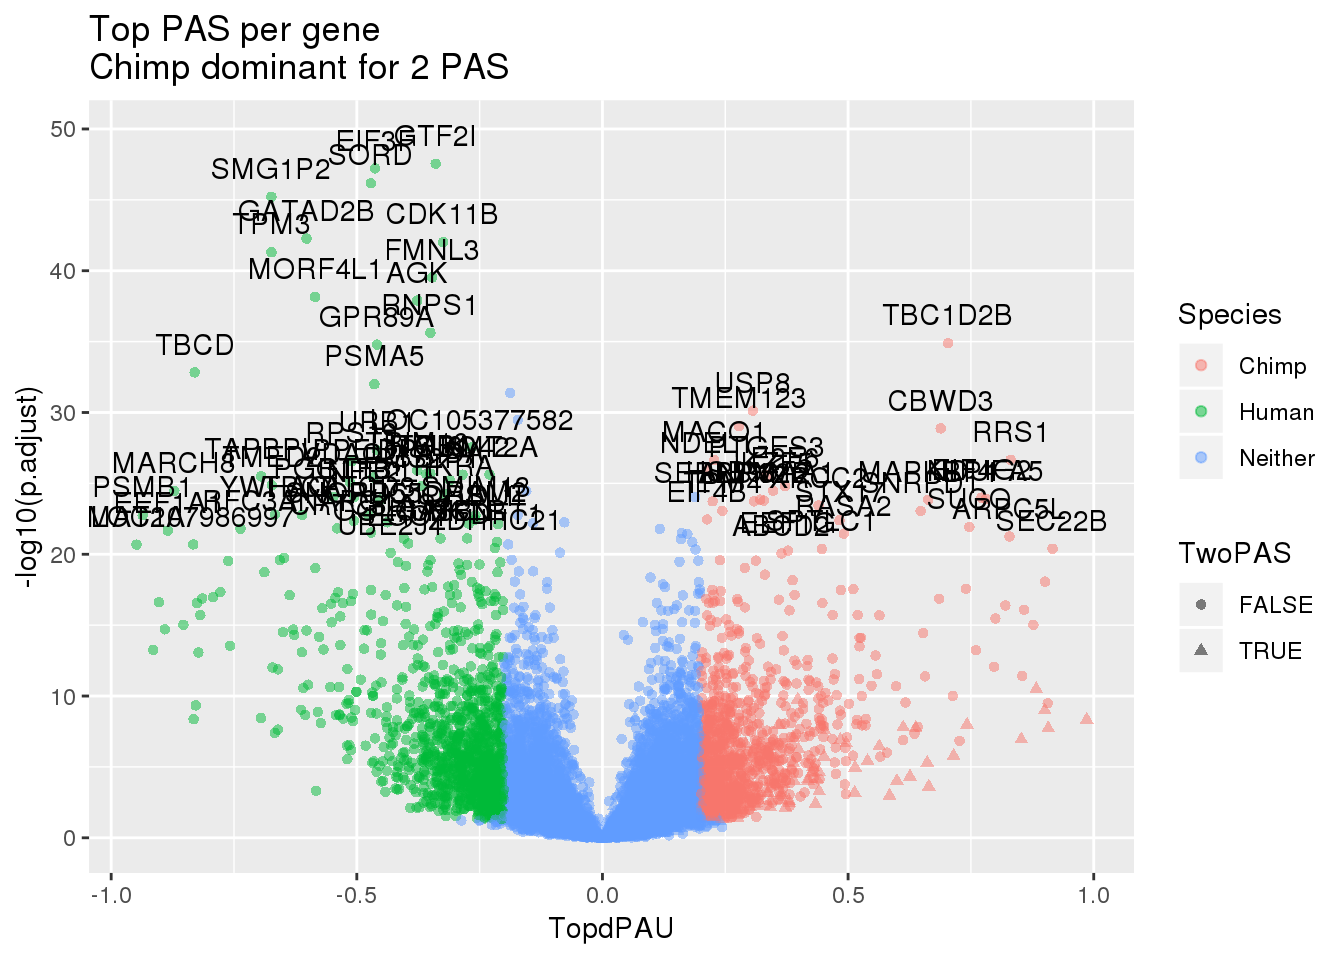
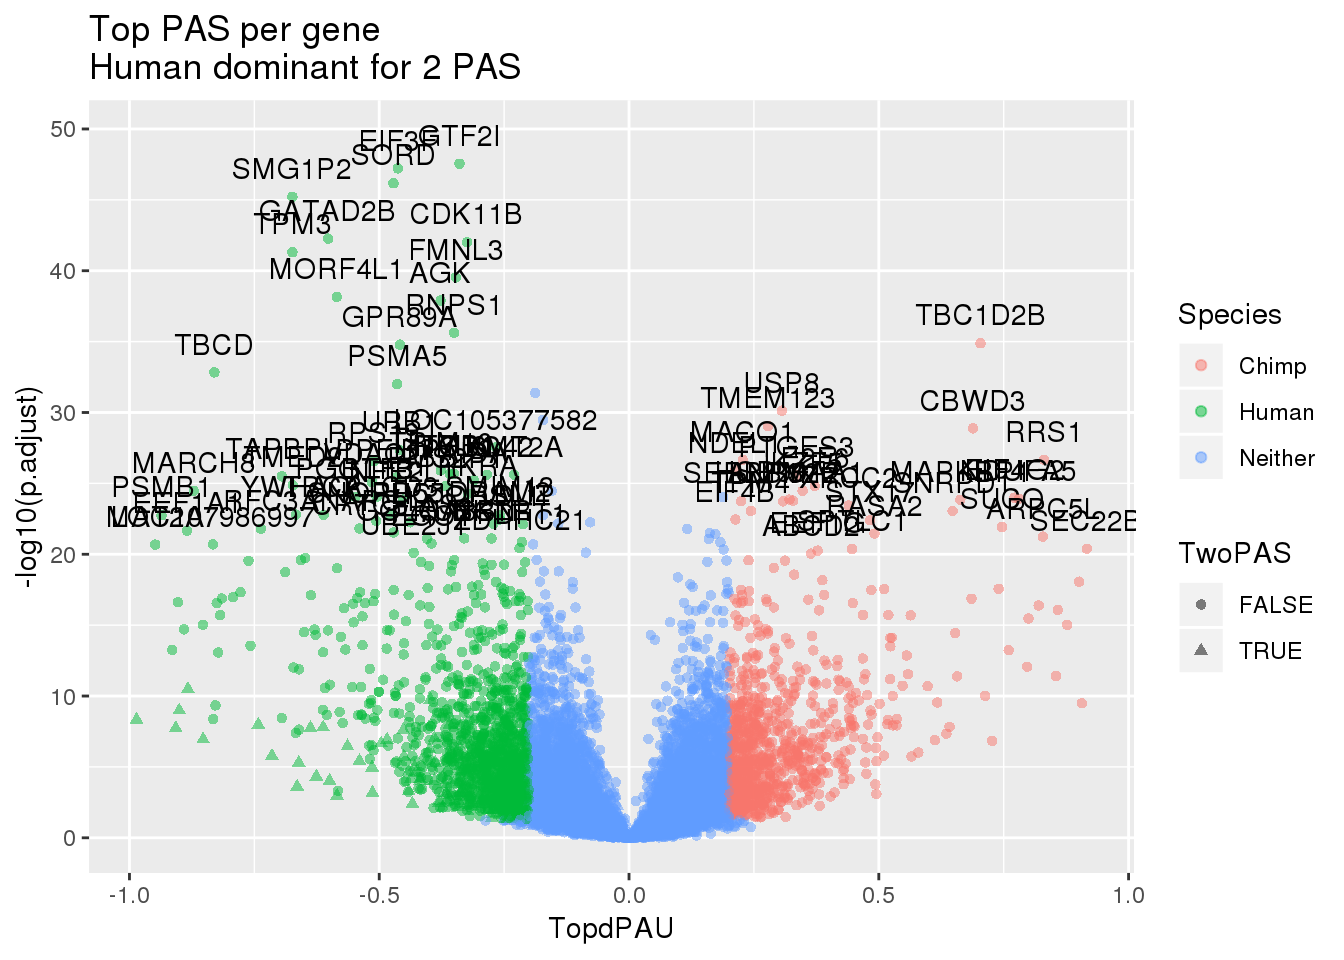
Build site.

diff --git a/docs/Nuclear_HvC_DF.html b/docs/Nuclear_HvC_DF.html
@@ -343,7 +343,7 @@ div.section {
 <div class="tab-content">
 <div id="summary" class="tab-pane fade in active">
 <p>
-<strong>Last updated:</strong> 2020-01-24
+<strong>Last updated:</strong> 2020-01-26
 </p>
 <p>
 <strong>Checks:</strong> <span class="glyphicon glyphicon-ok text-success" aria-hidden="true"></span> 7 <span class="glyphicon glyphicon-exclamation-sign text-danger" aria-hidden="true"></span> 0
@@ -434,10 +434,10 @@ This reproducible <a href="http://rmarkdown.rstudio.com">R Markdown</a> analysis
 <div class="panel panel-default">
 <div class="panel-heading">
 <p class="panel-title">
-<a data-toggle="collapse" data-parent="#workflowr-checks" href="#strongRepositoryversionstrongahrefhttpsgithubcombrimittlemanComparativeAPAtreeea17340cc15b89e5473f6a8fe1769795b8f96756targetblankea17340a"> <span class="glyphicon glyphicon-ok text-success" aria-hidden="true"></span> <strong>Repository version:</strong> <a href="https://github.com/brimittleman/Comparative_APA/tree/ea17340cc15b89e5473f6a8fe1769795b8f96756" target="_blank">ea17340</a> </a>
+<a data-toggle="collapse" data-parent="#workflowr-checks" href="#strongRepositoryversionstrongahrefhttpsgithubcombrimittlemanComparativeAPAtreebb7b019da795e13ac66b3d8572d942ecc372e0f1targetblankbb7b019a"> <span class="glyphicon glyphicon-ok text-success" aria-hidden="true"></span> <strong>Repository version:</strong> <a href="https://github.com/brimittleman/Comparative_APA/tree/bb7b019da795e13ac66b3d8572d942ecc372e0f1" target="_blank">bb7b019</a> </a>
 </p>
 </div>
[2 lines of base64/hex data omitted]
 <div class="panel-body">
 <p>
 Great! You are using Git for version control. Tracking code development and connecting the code version to the results is critical for reproducibility. The version displayed above was the version of the Git repository at the time these results were generated. <br><br> Note that you need to be careful to ensure that all relevant files for the analysis have been committed to Git prior to generating the results (you can use <code>wflow_publish</code> or <code>wflow_git_commit</code>). workflowr only checks the R Markdown file, but you know if there are other scripts or data files that it depends on. Below is the status of the Git repository when the results were generated:
@@ -459,7 +459,6 @@ Untracked files:
     Untracked:  Human/
     Untracked:  analysis/CrossChimpThreePrime.Rmd
     Untracked:  analysis/DiffTransProtvsExpression.Rmd
-    Untracked:  analysis/NormalizePheno_nuclear_DF.Rmd
     Untracked:  analysis/assessReadQual.Rmd
     Untracked:  analysis/diffExpressionPantro6.Rmd
     Untracked:  code/._ClassifyLeafviz.sh
@@ -521,6 +520,7 @@ Untracked files:
     Untracked:  code/._converBam2Junc_removeBad.sh
     Untracked:  code/._extraSnakefiltpas
     Untracked:  code/._extractPhyloReg.py
+    Untracked:  code/._extractPhyloRegGene.py
     Untracked:  code/._filter5percPAS.py
     Untracked:  code/._filterNumChroms.py
     Untracked:  code/._filterPASforMP.py
@@ -553,6 +553,7 @@ Untracked files:
     Untracked:  code/._negativeMediation_montecarloDF.R
     Untracked:  code/._numMultimap.py
     Untracked:  code/._overlapapaQTLPAS.sh
+    Untracked:  code/._parseHg38.py
     Untracked:  code/._postiveMediation_montecarlo_DF.R
     Untracked:  code/._prepareCleanLiftedFC_5perc4LC.py
     Untracked:  code/._prepareLeafvizAnno.sh
@@ -764,6 +765,7 @@ Untracked files:
     Untracked:  code/environment.yaml
     Untracked:  code/extraSnakefiltpas
     Untracked:  code/extractPhyloReg.py
+    Untracked:  code/extractPhyloRegGene.py
     Untracked:  code/filter5perc.R
     Untracked:  code/filter5percPAS.py
     Untracked:  code/filter5percPheno.py
@@ -847,6 +849,7 @@ Untracked files:
     Untracked:  code/overlapapaQTLPAS.sh
     Untracked:  code/overlapapaQTLPAS_extended.sh
     Untracked:  code/overlapapaQTLPAS_samples.sh
+    Untracked:  code/parseHg38.py
     Untracked:  code/peak2PAS.py
     Untracked:  code/pheno2countonly.R
     Untracked:  code/postiveMediation_montecarlo.R
@@ -1072,6 +1075,7 @@ Unstaged changes:
     Modified:   analysis/investigatePantro5.Rmd
     Modified:   analysis/multiMap.Rmd
     Modified:   analysis/speciesSpecific.Rmd
+    Modified:   analysis/speciesSpecific_DF.Rmd
 
 </code></pre>
 <p>
@@ -1110,6 +1114,40 @@ Message
 </tr>
 </thead>
 <tbody>
+<tr>
+<td>
+Rmd
+</td>
+<td>
+<a href="https://github.com/brimittleman/Comparative_APA/blob/bb7b019da795e13ac66b3d8572d942ecc372e0f1/analysis/Nuclear_HvC_DF.Rmd" target="_blank">bb7b019</a>
+</td>
+<td>
+brimittleman
+</td>
+<td>
+2020-01-26
+</td>
+<td>
+add color to effect plot
+</td>
+</tr>
+<tr>
+<td>
+html
+</td>
+<td>
+<a href="https://rawcdn.githack.com/brimittleman/Comparative_APA/5910b06690281ebb0f477d2c43f4800673ac0dd5/docs/Nuclear_HvC_DF.html" target="_blank">5910b06</a>
+</td>
+<td>
+brimittleman
+</td>
+<td>
+2020-01-24
+</td>
+<td>
+Build site.
+</td>
+</tr>
 <tr>
 <td>
 Rmd
@@ -1170,12 +1208,12 @@ nuclear diff filtered
 </div>
 <pre class="r"><code>library(reshape2)
 library(tidyverse)</code></pre>
-<pre><code>── Attaching packages ─────────────────────────────────────────────────────────────────────────────────────────────────────────────────────────────── tidyverse 1.2.1 ──</code></pre>
+<pre><code>── Attaching packages ────────────────────────────────────────────────────────────────────────────────────────────────────────────────────── tidyverse 1.2.1 ──</code></pre>
 <pre><code>✔ ggplot2 3.1.1       ✔ purrr   0.3.2  
 ✔ tibble  2.1.1       ✔ dplyr   0.8.0.1
 ✔ tidyr   0.8.3       ✔ stringr 1.3.1  
 ✔ readr   1.3.1       ✔ forcats 0.3.0  </code></pre>
-<pre><code>── Conflicts ────────────────────────────────────────────────────────────────────────────────────────────────────────────────────────────────── tidyverse_conflicts() ──
+<pre><code>── Conflicts ───────────────────────────────────────────────────────────────────────────────────────────────────────────────────────── tidyverse_conflicts() ──
 ✖ dplyr::filter() masks stats::filter()
 ✖ dplyr::lag()    masks stats::lag()</code></pre>
 <p>Compare nuclear fraction PAS between human and chimp. I need to fiter the phenotypes fixed for leafcutter further to have only the double filtered PAS.</p>
@@ -1327,6 +1365,13 @@ brimittleman
 </table>
 </div>
 </div>
+<p>Effect size &gt;.2 color:</p>
+<pre class="r"><code>effectsize_col= effectsize %&gt;% arrange(deltaPAU) %&gt;%  mutate(diffuse=ifelse(abs(deltaPAU)&gt;=.2,&quot;Yes&quot;, &quot;No&quot;))
+effectsize_col$color &lt;- ifelse(effectsize_col$diffuse==&quot;Yes&quot;, &quot;red&quot;, &quot;black&quot;)
+
+plot(sort(effectsize_col$deltaPAU),main=&quot;Leafcutter delta PAU&quot;, ylab=&quot;Delta PAU&quot;, xlab=&quot;PAS Index&quot;,col=alpha(effectsize_col$color, 0.6))
+legend(&quot;topleft&quot;, legend=c(&quot;abs(DPAU) &gt; .2, (n=3103)&quot;, &quot;Not differentially used (n=37673)&quot;), col=c(&quot;red&quot;, &quot;black&quot;), pch=16:16, cex=0.8)</code></pre>
+<p><img src="figure/Nuclear_HvC_DF.Rmd/unnamed-chunk-16-1.png" width="672" style="display: block; margin: auto;" /></p>
 <p>Are those discovered used more in chimp those discovered in chimp?</p>
 <pre class="r"><code>PASinfo=read.table(&quot;../data/PAS_doubleFilter/PAS_10perc_either_HumanCoord_BothUsage_meta_doubleFilter.txt&quot;,header = T, stringsAsFactors = F)</code></pre>
 <p>Join this with the effect sizes.</p>
@@ -1335,44 +1380,7 @@ effectsize_sep$start=as.integer(effectsize_sep$start)
 effectsize_sep$end=as.integer(effectsize_sep$end)
 effectsize_anno=effectsize_sep %&gt;% inner_join(PASinfo, by=c(&quot;chr&quot;, &quot;start&quot;, &quot;end&quot;,&quot;gene&quot;))</code></pre>
 <pre class="r"><code>ggplot(effectsize_anno, aes(x=disc, y=deltaPAU)) + geom_boxplot()</code></pre>
-<p><img src="figure/Nuclear_HvC_DF.Rmd/unnamed-chunk-18-1.png" width="672" style="display: block; margin: auto;" /></p>
-<p>
-<button type="button" class="btn btn-default btn-xs btn-workflowr btn-workflowr-fig" data-toggle="collapse" data-target="#fig-unnamed-chunk-18-1">
-Past versions of unnamed-chunk-18-1.png
-</button>
-</p>
-<div id="fig-unnamed-chunk-18-1" class="collapse">
-<div class="table-responsive">
-<table class="table table-condensed table-hover">
-<thead>
-<tr>
-<th>
-Version
-</th>
-<th>
-Author
-</th>
-<th>
-Date
-</th>
-</tr>
-</thead>
-<tbody>
-<tr>
-<td>
-<a href="https://github.com/brimittleman/Comparative_APA/blob/f00297802381bb687f60fb10c2ccea7e9cae8280/docs/figure/Nuclear_HvC_DF.Rmd/unnamed-chunk-18-1.png" target="_blank">f002978</a>
-</td>
-<td>
-brimittleman
-</td>
-<td>
-2020-01-22
-</td>
-</tr>
-</tbody>
-</table>
-</div>
-</div>
+<p><img src="figure/Nuclear_HvC_DF.Rmd/unnamed-chunk-19-1.png" width="672" style="display: block; margin: auto;" /></p>
 <p>Volcano plot:</p>
 <p>I need the effect sizes and the significance. I need to plot only the top PAS per cluster.</p>
 <pre class="r"><code>sig_geneP=sig %&gt;% separate(cluster,into = c(&quot;chr&quot;, &quot;gene&quot;), sep=&quot;:&quot;) %&gt;% dplyr::select(gene, p.adjust)
@@ -1385,45 +1393,7 @@ effectsizeTopFilt=effectsizeTop %&gt;% filter(abs(Min) != Max)
 effectsize_wES=effectsizeTopFilt %&gt;% inner_join(sig_geneP, by=&quot;gene&quot;) %&gt;% mutate(Species=ifelse(TopdPAU &gt; 0.2 &amp; p.adjust&lt;.05, &quot;Chimp&quot;, ifelse(TopdPAU &lt; -0.2 &amp; p.adjust&lt; .05, &quot;Human&quot;, &quot;Neither&quot;)))</code></pre>
 <p>This is the significance for the gene.</p>
 <pre class="r"><code>ggplot(effectsize_wES,aes(x=TopdPAU, y=-log10(p.adjust))) +geom_point(aes(col=Species),alpha=.5) + labs(title=&quot;Top PAS per gene \nExclude 2 PAS genes&quot;)+ geom_text(data=subset(effectsize_wES, -log10(p.adjust) &gt;20 &amp; abs(TopdPAU)&gt;.2 ), aes(x=TopdPAU,y=-log10(p.adjust) +2,label=gene))</code></pre>
-<p><img src="figure/Nuclear_HvC_DF.Rmd/unnamed-chunk-20-1.png" width="672" style="display: block; margin: auto;" /></p>
-<p>
-<button type="button" class="btn btn-default btn-xs btn-workflowr btn-workflowr-fig" data-toggle="collapse" data-target="#fig-unnamed-chunk-20-1">
-Past versions of unnamed-chunk-20-1.png
-</button>
-</p>
-<div id="fig-unnamed-chunk-20-1" class="collapse">
-<div class="table-responsive">
-<table class="table table-condensed table-hover">
-<thead>
-<tr>
-<th>
-Version
-</th>
-<th>
-Author
-</th>
-<th>
-Date
-</th>
-</tr>
-</thead>
-<tbody>
-<tr>
-<td>
-<a href="https://github.com/brimittleman/Comparative_APA/blob/f00297802381bb687f60fb10c2ccea7e9cae8280/docs/figure/Nuclear_HvC_DF.Rmd/unnamed-chunk-20-1.png" target="_blank">f002978</a>
-</td>
-<td>
-brimittleman
-</td>
-<td>
-2020-01-22
-</td>
-</tr>
-</tbody>
-</table>
-</div>
-</div>
-<p>Not the best way to visualize this because every PAS per gene is assigned the same pvalue.</p>
+<p><img src="figure/Nuclear_HvC_DF.Rmd/unnamed-chunk-21-1.png" width="672" style="display: block; margin: auto;" /> Not the best way to visualize this because every PAS per gene is assigned the same pvalue.</p>
 <p>Try this including the matching one. I will make 2 plots. One with human dominant, one with chimp dominant.</p>
 <pre class="r"><code>effectsizeTopHuman=effectsize_sep %&gt;% group_by(gene) %&gt;% summarise(Min=min(deltaPAU), Max=max(deltaPAU)) %&gt;% mutate(TopdPAU=ifelse(abs(Min) &gt; Max, Min, ifelse(abs(Min)==Max, Min, Max)),TwoPAS=ifelse(abs(Min)==Max, T, F))
 
@@ -1433,45 +1403,6 @@ effectsizeTopChimp=effectsize_sep %&gt;% group_by(gene) %&gt;% summarise(Min=min
 
 effectsize_wES_chimp=effectsizeTopChimp %&gt;% inner_join(sig_geneP, by=&quot;gene&quot;) %&gt;% mutate(Species=ifelse(TopdPAU &gt; 0.2 &amp; p.adjust&lt;.05, &quot;Chimp&quot;, ifelse(TopdPAU &lt; -0.2 &amp; p.adjust&lt; .05, &quot;Human&quot;, &quot;Neither&quot;)))</code></pre>
 <pre class="r"><code>ggplot(effectsize_wES_human,aes(x=TopdPAU, y=-log10(p.adjust))) + geom_point(aes(col=Species, shape=TwoPAS),alpha=.5) + labs(title=&quot;Top PAS per gene \nHuman dominant for 2 PAS&quot;)+ geom_text(data=subset(effectsize_wES_human,-log10(p.adjust) &gt;20 &amp; abs(TopdPAU)&gt;.2 ), aes(x=TopdPAU,y=-log10(p.adjust) +2,label=gene))</code></pre>
-<p><img src="figure/Nuclear_HvC_DF.Rmd/unnamed-chunk-22-1.png" width="672" style="display: block; margin: auto;" /></p>
-<p>
-<button type="button" class="btn btn-default btn-xs btn-workflowr btn-workflowr-fig" data-toggle="collapse" data-target="#fig-unnamed-chunk-22-1">
-Past versions of unnamed-chunk-22-1.png
-</button>
-</p>
-<div id="fig-unnamed-chunk-22-1" class="collapse">
-<div class="table-responsive">
-<table class="table table-condensed table-hover">
-<thead>
-<tr>
-<th>
-Version
-</th>
-<th>
-Author
-</th>
-<th>
-Date
-</th>
-</tr>
-</thead>
-<tbody>
-<tr>
-<td>
-<a href="https://github.com/brimittleman/Comparative_APA/blob/f00297802381bb687f60fb10c2ccea7e9cae8280/docs/figure/Nuclear_HvC_DF.Rmd/unnamed-chunk-22-1.png" target="_blank">f002978</a>
-</td>
-<td>
-brimittleman
-</td>
-<td>
-2020-01-22
-</td>
-</tr>
-</tbody>
-</table>
-</div>
-</div>
-<pre class="r"><code>ggplot(effectsize_wES_chimp,aes(x=TopdPAU, y=-log10(p.adjust))) + geom_point(aes(col=Species, shape=TwoPAS),alpha=.5)  + labs(title=&quot;Top PAS per gene \nChimp dominant for 2 PAS&quot;)+ geom_text(data=subset(effectsize_wES_chimp, -log10(p.adjust) &gt;20 &amp; abs(TopdPAU)&gt;.2), aes(x=TopdPAU,y=-log10(p.adjust) +2,label=gene)) </code></pre>
 <p><img src="figure/Nuclear_HvC_DF.Rmd/unnamed-chunk-23-1.png" width="672" style="display: block; margin: auto;" /></p>
 <p>
 <button type="button" class="btn btn-default btn-xs btn-workflowr btn-workflowr-fig" data-toggle="collapse" data-target="#fig-unnamed-chunk-23-1">
@@ -1510,6 +1441,8 @@ brimittleman
 </table>
 </div>
 </div>
+<pre class="r"><code>ggplot(effectsize_wES_chimp,aes(x=TopdPAU, y=-log10(p.adjust))) + geom_point(aes(col=Species, shape=TwoPAS),alpha=.5)  + labs(title=&quot;Top PAS per gene \nChimp dominant for 2 PAS&quot;)+ geom_text(data=subset(effectsize_wES_chimp, -log10(p.adjust) &gt;20 &amp; abs(TopdPAU)&gt;.2), aes(x=TopdPAU,y=-log10(p.adjust) +2,label=gene)) </code></pre>
+<p><img src="figure/Nuclear_HvC_DF.Rmd/unnamed-chunk-24-1.png" width="672" style="display: block; margin: auto;" /></p>
 <p>Write out the significant genes with &gt;.2 difference.</p>
 <pre class="r"><code>effectsize_sep_pval=effectsize_sep %&gt;% full_join(sig_geneP, by=&quot;gene&quot;)
 #significant &gt; .2
